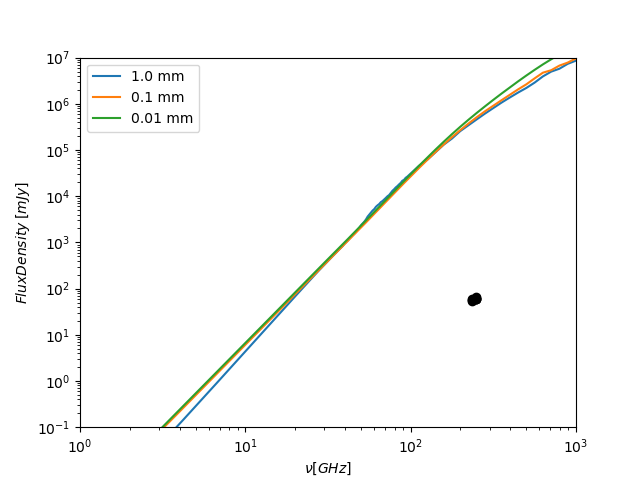
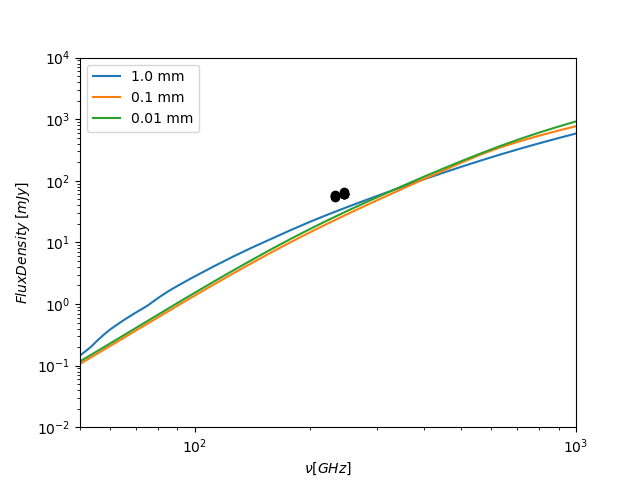
Adjust the unit of flux

diff --git a/plot_sed.py b/plot_sed.py
@@ -12,15 +12,15 @@ def plot_sed(plot_nu=True, GHz=True, mjy=True):
 
     s = readSpectrum('spectrum.out')
     lam = s[:, 0]
-    fnu = s[:, 1]
+    fnu = s[:, 1]/(140*140)
     if mjy is True:
         fnu = 1e26*fnu
         plt.ylabel('$ Flux Density \; [mJy]$')
-        plt.ylim((1e-1, 1e7))
+        plt.ylim((1e-2, 1e4))
     else:
         fnu = 1e23*fnu
         plt.ylabel('$ Flux Density \; [Jy]$')
-        plt.ylim((1e-4, 1e4))
+        plt.ylim((1e-5, 1e1))
 
     if plot_nu is True:
         nu = (1e-2*cc)/(1e-6*lam)
@@ -32,7 +32,7 @@ def plot_sed(plot_nu=True, GHz=True, mjy=True):
         fig = plt.plot(nu, fnu)
         plt.yscale('log')
         plt.xscale('log')
-        plt.xlim((1e0, 1e3))
+        plt.xlim((5e1, 1e3))
     else:
         fig = plt.plot(lam, fnu)
         plt.xlabel('$\\lambda [mm]$')

diff --git a/debug.py b/debug.py
@@ -41,7 +41,7 @@ Checking the consistency between X22 model and its extension
 
 
 # Density (spherical coordinates)
-p = problem_setup(a_max=0.01, Mass_of_star=0.14*Msun, Accretion_rate=0.14e-5*Msun/yr, Radius_of_disk=30*au, pancake=False)
+p = problem_setup(a_max=0.01, Mass_of_star=.14*Msun, Accretion_rate=.14e-5*Msun/yr, Radius_of_disk=30*au, pancake=False)
 rho = p.DM.rho_sph[:, :, 0]
 
 r = p.DM.r_sph*au
